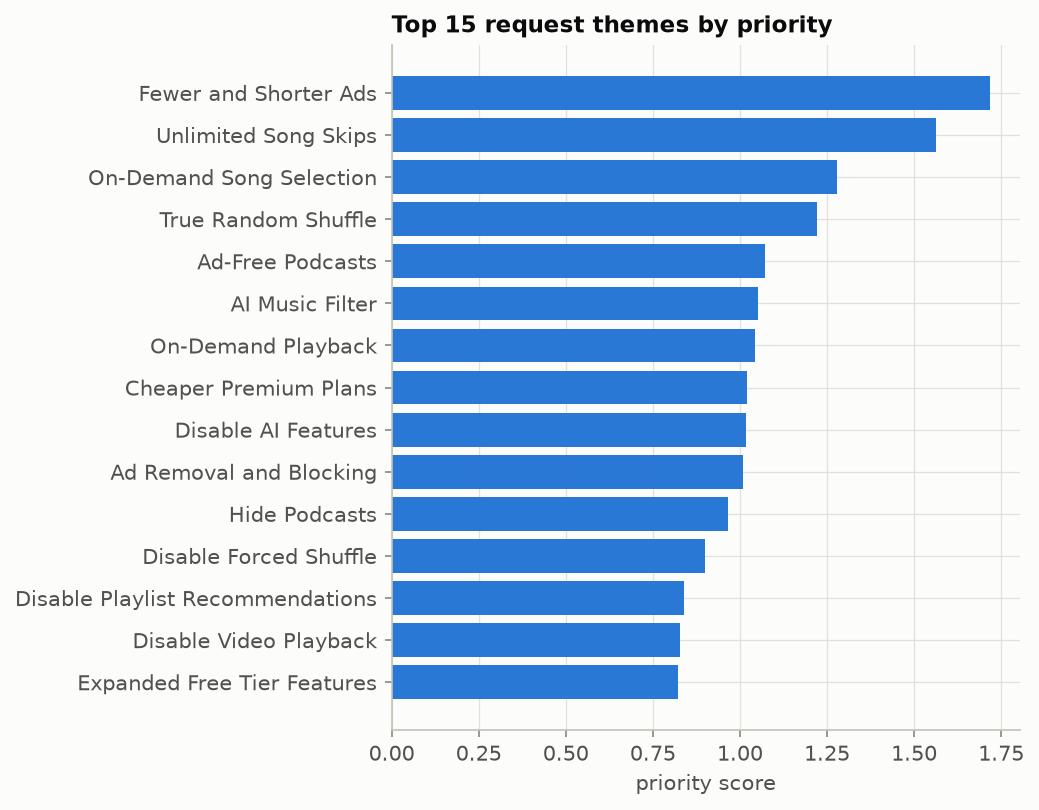
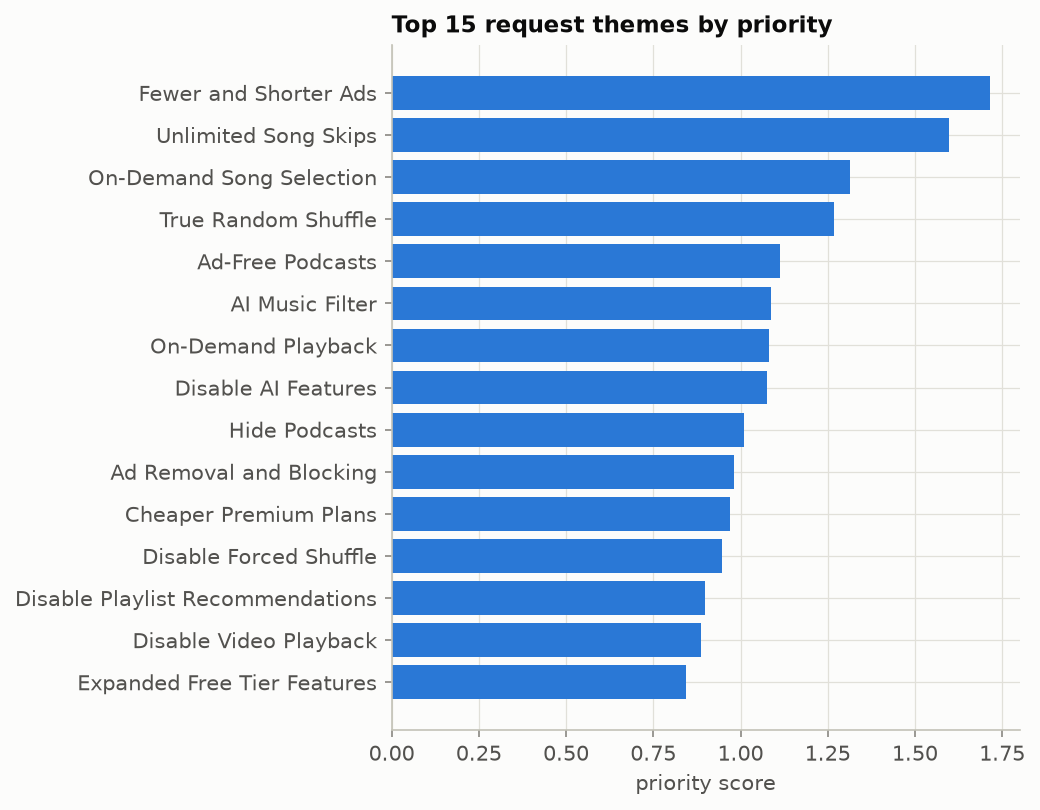
Trends: leave 5★ Play reviews out of growth and monthly shares
Google Play only returns 5★ reviews from 2026-08-31, so they all fell in the
recent trend window (9,630 of its 34,321 items) and made every theme look
smaller there. Growth, trends and monthly shares now count 1-4★ reviews and
Reddit only; volume and ratings still use all items. Declining themes go from
6 to 2 (old widget, old logo); none emerges.

Re-running rank_and_insights.py also re-ran the existing-feature matching
(cache miss for the corrected catalogue), which gave 17/23/17 instead of
13/24/20 exists/premium_only/partly.

diff --git a/scripts/rank_and_insights.py b/scripts/rank_and_insights.py
@@ -29,7 +29,10 @@ def main() -> None:
     proc = path("processed")
     themes = pd.read_parquet(proc / "themes.parquet")
     themed = pd.read_parquet(proc / "request_themes.parquet")
-    corpus_created = pd.read_parquet(path("interim") / "corpus.parquet")["created_at"]
+    corpus = pd.read_parquet(
+        path("interim") / "corpus.parquet", columns=["source", "rating", "created_at"]
+    )
+    corpus_created = score.trend_items(corpus)["created_at"]  # trends ignore 5★ Play reviews
 
     # Ranking and trends.
     stats = score.theme_stats(
@@ -45,7 +48,7 @@ def main() -> None:
     stats = stats.sort_values("priority", ascending=False, ignore_index=True)
     stats["rank"] = np.arange(1, len(stats) + 1)
     items = score.item_table(themed)
-    series = trends.monthly(items, corpus_created)
+    series = trends.monthly(score.trend_items(items), corpus_created)
     stats.to_parquet(proc / "theme_stats.parquet", index=False)
     series.to_parquet(proc / "theme_timeseries.parquet", index=False)
 
@@ -108,7 +111,8 @@ def write_reports(stats, series, plat, rat, comp, ex, themes, rcfg, tot_prev, to
             f"{w['dissatisfaction']}·z(share ≤2★) + {w['growth']}·z(growth). Engagement: "
             "mean within-source percentile of thumbs-up/upvotes. Growth: log2 change in "
             f"the theme's share of corpus items, last {rcfg['window_weeks']} weeks vs the "
-            f"{rcfg['window_weeks']} before (blank below {rcfg['min_support']} items).\n\n"
+            f"{rcfg['window_weeks']} before, 5★ Play reviews left out (blank below "
+            f"{rcfg['min_support']} items).\n\n"
         )
         f.write(stats.head(30)[cols].round(3).to_markdown(index=False) + "\n")
         by_vol = stats.sort_values("items", ascending=False).head(15)
@@ -123,7 +127,9 @@ def write_reports(stats, series, plat, rat, comp, ex, themes, rcfg, tot_prev, to
             f"{rcfg['window_weeks']} weeks before ({tot_prev}). Two-proportion z-test on "
             f"the theme's share of corpus items, Benjamini–Hochberg q < "
             f"{rcfg['trend']['alpha']}, ratio ≥ {rcfg['trend']['min_ratio']} (or ≤ its "
-            f"inverse), ≥ {rcfg['trend']['min_recent']} items in the larger window.\n\n"
+            f"inverse), ≥ {rcfg['trend']['min_recent']} items in the larger window. "
+            "5★ Play reviews are left out of all counts, because Google Play only returns them "
+            "for the last weeks of the year.\n\n"
         )
         for trend in ("emerging", "declining"):
             sub = stats[stats["trend"] == trend].sort_values("ratio", ascending=trend != "emerging")

diff --git a/src/frminer/rank/score.py b/src/frminer/rank/score.py
@@ -5,7 +5,8 @@ priority = w_volume·z(log items) + w_engagement·z(engagement)
 
 Engagement is each item's percentile rank of thumbs-up / upvotes within its own source
 (so Play and Reddit are comparable), averaged per theme. Growth is the log2 ratio of the
-theme's share of all corpus items in the recent window vs the window before it.
+theme's share of all corpus items in the recent window vs the window before it (5★ Play
+reviews left out, see `trend_items`).
 """
 
 from __future__ import annotations
@@ -22,6 +23,16 @@ def item_table(themed: pd.DataFrame) -> pd.DataFrame:
     eng = themed.drop_duplicates("id")[["id", "source", "engagement"]].copy()
     eng["engagement_pct"] = eng.groupby("source")["engagement"].rank(pct=True)
     return items.merge(eng[["id", "engagement_pct"]], on="id", how="left")
+
+
+def trend_items(df: pd.DataFrame) -> pd.DataFrame:
+    """Rows that count towards growth, trends and monthly shares: all but 5★ Play reviews.
+
+    Google Play only returns 5★ reviews for the last weeks of the window (pagination limit),
+    so counting them would inflate recent volume and make every theme look like it shrinks.
+    """
+    five_star_play = (df["source"] == "play") & df["rating"].eq(5).fillna(False).astype(bool)
+    return df[~five_star_play]
 
 
 def windows(end: pd.Timestamp, weeks: int) -> tuple[pd.Timestamp, pd.Timestamp, pd.Timestamp]:
@@ -47,7 +58,7 @@ def theme_stats(
     rows = []
     for theme, g in items.groupby("theme_id"):
         play = g[(g["source"] == "play") & g["rating"].notna()]
-        prev, recent = window_counts(g["created_at"], bounds)
+        prev, recent = window_counts(trend_items(g)["created_at"], bounds)
         growth = (
             np.log2((recent / tot_recent + EPS) / (prev / tot_prev + EPS))
             if prev + recent >= min_support

diff --git a/tests/test_rank.py b/tests/test_rank.py
@@ -34,6 +34,23 @@ def test_theme_stats_volume_ratings_growth():
     assert s1["growth"] > 0  # all of theme 1 is in the recent window
 
 
+def test_five_star_play_reviews_do_not_count_for_growth():
+    themed = themed_frame()
+    late = pd.Timestamp("2026-01-01", tz="UTC") + pd.Timedelta(weeks=20)
+    extra = pd.DataFrame(
+        [(f"f{i}", "play", late, 5, 0, 0, None) for i in range(10)], columns=themed.columns
+    ).astype({"rating": "Int64"})
+    kept = score.trend_items(pd.concat([themed, extra], ignore_index=True))
+    assert not kept["id"].str.startswith("f").any()
+    assert kept["rating"].isna().sum() == themed["rating"].isna().sum()  # Reddit rows stay
+    base = score.theme_stats(themed, corpus_created(), weeks=10, min_support=5)
+    more = score.theme_stats(
+        pd.concat([themed, extra], ignore_index=True), corpus_created(), weeks=10, min_support=5
+    )
+    assert more.loc[0, "recent_items"] == base.loc[0, "recent_items"]
+    assert more.loc[0, "items"] == base.loc[0, "items"] + 10  # still counted as volume
+
+
 def test_priority_and_zscore():
     stats = pd.DataFrame(
         {"items": [100, 10], "engagement": [0.5, 0.5], "low_rating_share": [np.nan, 0.2]}

diff --git a/apps/dashboard/views/explorer.py b/apps/dashboard/views/explorer.py
@@ -57,7 +57,7 @@ k[3].metric(
     row["trend"],
     None if pd.isna(growth) else f"{growth:+.2f} log₂ share",
     delta_color="normal" if row["trend"] != "stable" else "off",
-    help="Theme's share of all items, last 13 weeks vs the 13 before; "
+    help="Theme's share of all items (5★ Play reviews left out), last 13 weeks vs the 13 before; "
     "'declining'/'emerging' only when significant (BH-corrected).",
 )
 
@@ -101,7 +101,7 @@ fig.update_layout(
     margin=dict(t=10),
 )
 with left:
-    st.markdown("**Share of all items per month** (all sources)")
+    st.markdown("**Share of all items per month** (all sources; 5★ Play reviews left out)")
     st.plotly_chart(fig, width="stretch", config=CHART_CONFIG)
     st.caption("First and last months are partial. Shaded: selected months.")
 

diff --git a/apps/dashboard/views/trends.py b/apps/dashboard/views/trends.py
@@ -35,7 +35,8 @@ st.markdown(
     f"Each theme's **share of all items** in the last {weeks} weeks vs the {weeks} weeks before. "
     f"A theme is *emerging* or *declining* when the share changes at least {tcfg['min_ratio']}× "
     f"with ≥ {tcfg['min_recent']} recent items and a two-proportion test is significant "
-    f"(Benjamini–Hochberg q < {tcfg['alpha']})."
+    f"(Benjamini–Hochberg q < {tcfg['alpha']}). 5★ Play reviews are left out of trends: "
+    "Google Play only returns them for the last weeks of the year."
 )
 k = st.columns(3)
 k[0].metric("Themes with enough data", f"{stats['growth'].notna().sum()} of {len(stats)}")

diff --git a/apps/dashboard/views/overview.py b/apps/dashboard/views/overview.py
@@ -15,7 +15,8 @@ WEIGHT_HELP = {
     "volume": "log of the number of items asking for the theme",
     "engagement": "mean thumbs-up / upvote percentile (within each source)",
     "dissatisfaction": "share of the theme's Play reviews rated ≤ 2★",
-    "growth": "change in share of all items, last 13 weeks vs the 13 before",
+    "growth": "change in share of all items (5★ Play reviews left out), "
+    "last 13 weeks vs the 13 before",
 }
 
 st.title("Feature Request Miner")

diff --git a/reports/tables/top_themes.md b/reports/tables/top_themes.md
@@ -1,39 +1,39 @@
 # Top request themes by priority
 
-priority = 0.4·z(log items) + 0.2·z(engagement) + 0.2·z(share ≤2★) + 0.2·z(growth). Engagement: mean within-source percentile of thumbs-up/upvotes. Growth: log2 change in the theme's share of corpus items, last 13 weeks vs the 13 before (blank below 20 items).
+priority = 0.4·z(log items) + 0.2·z(engagement) + 0.2·z(share ≤2★) + 0.2·z(growth). Engagement: mean within-source percentile of thumbs-up/upvotes. Growth: log2 change in the theme's share of corpus items, last 13 weeks vs the 13 before, 5★ Play reviews left out (blank below 20 items).
 
 |   rank | name                                |   items |   engagement |   low_rating_share |   growth |   priority | trend     |
 |-------:|:------------------------------------|--------:|-------------:|-------------------:|---------:|-----------:|:----------|
-|      1 | Fewer and Shorter Ads               |    2709 |        0.51  |              0.512 |   -0.045 |      1.718 | stable    |
-|      2 | Unlimited Song Skips                |    1082 |        0.554 |              0.642 |   -0.146 |      1.562 | stable    |
-|      3 | On-Demand Song Selection            |     624 |        0.548 |              0.742 |   -0.538 |      1.28  | stable    |
-|      4 | True Random Shuffle                 |     492 |        0.572 |              0.555 |    0.09  |      1.221 | stable    |
-|      5 | Ad-Free Podcasts                    |     136 |        0.619 |              0.724 |    0.363 |      1.073 | stable    |
-|      6 | AI Music Filter                     |     271 |        0.6   |              0.808 |   -0.829 |      1.052 | stable    |
-|      7 | On-Demand Playback                  |     314 |        0.52  |              0.712 |    0.131 |      1.043 | stable    |
-|      8 | Cheaper Premium Plans               |     792 |        0.483 |              0.503 |   -0.095 |      1.02  | stable    |
-|      9 | Disable AI Features                 |     254 |        0.6   |              0.786 |   -0.757 |      1.018 | declining |
-|     10 | Ad Removal and Blocking             |     338 |        0.55  |              0.657 |   -0.18  |      1.007 | stable    |
-|     11 | Hide Podcasts                       |     170 |        0.635 |              0.803 |   -0.755 |      0.967 | stable    |
-|     12 | Disable Forced Shuffle              |     396 |        0.55  |              0.652 |   -0.73  |      0.901 | declining |
-|     13 | Disable Playlist Recommendations    |      65 |        0.644 |              0.82  |    0.078 |      0.838 | stable    |
-|     14 | Disable Video Playback              |     239 |        0.56  |              0.732 |   -0.627 |      0.828 | stable    |
-|     15 | Expanded Free Tier Features         |     358 |        0.517 |              0.637 |   -0.423 |      0.821 | stable    |
-|     16 | Free Tier On-Demand Playback        |     252 |        0.531 |              0.735 |   -0.836 |      0.688 | declining |
-|     17 | Removal of Playback Limits          |     155 |        0.549 |              0.655 |   -0.112 |      0.659 | stable    |
-|     18 | Free Queue Management               |     154 |        0.615 |              0.522 |   -0.293 |      0.658 | stable    |
-|     19 | Compact Home Screen Widgets         |     403 |        0.61  |              0.695 |   -2.451 |      0.605 | declining |
-|     20 | Disable Recommendations             |      64 |        0.602 |              0.72  |    0.193 |      0.6   | stable    |
-|     21 | Song Repeat Feature                 |     211 |        0.495 |              0.507 |    0.317 |      0.577 | stable    |
-|     22 | Song Rewind Controls                |     143 |        0.564 |              0.592 |   -0.221 |      0.558 | stable    |
-|     23 | Song Looping Controls               |      96 |        0.55  |              0.604 |    0.285 |      0.502 | stable    |
-|     24 | Synced Lyrics Display               |     425 |        0.488 |              0.283 |   -0.027 |      0.497 | stable    |
-|     25 | Enhanced Liked Songs Management     |     152 |        0.512 |              0.457 |    0.556 |      0.497 | stable    |
-|     26 | Bring Back Spotify Lite             |     113 |        0.494 |              0.747 |    0.013 |      0.477 | stable    |
-|     27 | Playlist Management and Variety     |     223 |        0.558 |              0.38  |   -0.273 |      0.471 | stable    |
-|     28 | Disable Podcasts and Video Playback |      61 |        0.631 |              0.804 |   -0.805 |      0.456 | stable    |
-|     29 | Hide Audiobooks and Podcasts        |      58 |        0.584 |              0.725 |   -0.015 |      0.434 | stable    |
-|     30 | True Playlist Shuffle               |      80 |        0.585 |              0.529 |    0.252 |      0.432 | stable    |
+|      1 | Fewer and Shorter Ads               |    2709 |        0.51  |              0.512 |    0.231 |      1.714 | stable    |
+|      2 | Unlimited Song Skips                |    1082 |        0.554 |              0.642 |    0.254 |      1.598 | stable    |
+|      3 | On-Demand Song Selection            |     624 |        0.548 |              0.742 |   -0.139 |      1.315 | stable    |
+|      4 | True Random Shuffle                 |     492 |        0.572 |              0.555 |    0.523 |      1.269 | stable    |
+|      5 | Ad-Free Podcasts                    |     136 |        0.619 |              0.724 |    0.772 |      1.114 | stable    |
+|      6 | AI Music Filter                     |     271 |        0.6   |              0.808 |   -0.424 |      1.088 | stable    |
+|      7 | On-Demand Playback                  |     314 |        0.52  |              0.712 |    0.535 |      1.081 | stable    |
+|      8 | Disable AI Features                 |     254 |        0.6   |              0.786 |   -0.282 |      1.077 | stable    |
+|      9 | Hide Podcasts                       |     170 |        0.635 |              0.803 |   -0.331 |      1.009 | stable    |
+|     10 | Ad Removal and Blocking             |     338 |        0.55  |              0.657 |    0.028 |      0.981 | stable    |
+|     11 | Cheaper Premium Plans               |     792 |        0.483 |              0.503 |    0.04  |      0.97  | stable    |
+|     12 | Disable Forced Shuffle              |     396 |        0.55  |              0.652 |   -0.296 |      0.946 | stable    |
+|     13 | Disable Playlist Recommendations    |      65 |        0.644 |              0.82  |    0.552 |      0.899 | stable    |
+|     14 | Disable Video Playback              |     239 |        0.56  |              0.732 |   -0.152 |      0.888 | stable    |
+|     15 | Expanded Free Tier Features         |     358 |        0.517 |              0.637 |   -0.06  |      0.844 | stable    |
+|     16 | Free Tier On-Demand Playback        |     252 |        0.531 |              0.735 |   -0.392 |      0.736 | stable    |
+|     17 | Free Queue Management               |     154 |        0.615 |              0.522 |    0.181 |      0.719 | stable    |
+|     18 | Removal of Playback Limits          |     155 |        0.549 |              0.655 |    0.215 |      0.671 | stable    |
+|     19 | Disable Recommendations             |      64 |        0.602 |              0.72  |    0.668 |      0.662 | stable    |
+|     20 | Compact Home Screen Widgets         |     403 |        0.61  |              0.695 |   -2.063 |      0.63  | declining |
+|     21 | Song Repeat Feature                 |     211 |        0.495 |              0.507 |    0.719 |      0.616 | stable    |
+|     22 | Song Rewind Controls                |     143 |        0.564 |              0.592 |    0.093 |      0.566 | stable    |
+|     23 | Song Looping Controls               |      96 |        0.55  |              0.604 |    0.76  |      0.564 | stable    |
+|     24 | Enhanced Liked Songs Management     |     152 |        0.512 |              0.457 |    1     |      0.55  | stable    |
+|     25 | Bring Back Spotify Lite             |     113 |        0.494 |              0.747 |    0.487 |      0.538 | stable    |
+|     26 | Disable Podcasts and Video Playback |      61 |        0.631 |              0.804 |   -0.331 |      0.515 | stable    |
+|     27 | Playlist Management and Variety     |     223 |        0.558 |              0.38  |    0.035 |      0.476 | stable    |
+|     28 | Synced Lyrics Display               |     425 |        0.488 |              0.283 |    0.188 |      0.474 | stable    |
+|     29 | Hide Audiobooks and Podcasts        |      58 |        0.584 |              0.725 |    0.36  |      0.463 | stable    |
+|     30 | True Playlist Shuffle               |      80 |        0.585 |              0.529 |    0.607 |      0.455 | stable    |
 
 ## Largest themes by volume
 

diff --git a/reports/tables/insights.md b/reports/tables/insights.md
@@ -139,24 +139,24 @@ Play-leaning:
 
 ## Requests for features that already exist
 
-new: 87 themes, premium_only: 24 themes, partly: 20 themes, exists: 13 themes (of 144).
+new: 87 themes, premium_only: 23 themes, partly: 17 themes, exists: 17 themes (of 144).
 
 ### exists
 
-| name                             | feature                       | availability   |   items |
-|:---------------------------------|:------------------------------|:---------------|--------:|
-| Synced Lyrics Display            | Lyrics                        | all            |     425 |
-| Disable Forced Shuffle           | Turn off Smart Shuffle        | premium        |     396 |
-| Search and History Management    | Listening history             | all            |      83 |
-| Playlist Content Management      | Hide song                     | all            |      81 |
-| Hidden Songs Management          | Hide song                     | all            |      77 |
-| Volume Control and Normalization | Volume normalization          | all            |      67 |
-| Crossfade and Gapless Playback   | Crossfade                     | all            |      66 |
-| Family Plan Management           | Family, Duo and Student plans | all            |      49 |
-| Improved Playback Controls       | Home screen widget            | all            |      44 |
-| Advanced Audio Equalizer         | Equalizer                     | all            |      39 |
-| Playlist Folders on Mobile       | Playlist folders              | all            |      38 |
-| Radio And Station Discovery      | Song radio                    | all            |      33 |
+| name                             | feature                | availability   |   items |
+|:---------------------------------|:-----------------------|:---------------|--------:|
+| Synced Lyrics Display            | Lyrics                 | all            |     425 |
+| Disable Forced Shuffle           | Turn off Smart Shuffle | premium        |     396 |
+| Ad-Free Premium Experience       | Ad-free listening      | premium        |     143 |
+| Ad-Free Podcasts                 | Ad-free listening      | premium        |     136 |
+| Monthly Listening Statistics     | Listening history      | all            |      89 |
+| Search and History Management    | Listening history      | all            |      83 |
+| Playlist Content Management      | Hide song              | all            |      81 |
+| Hidden Songs Management          | Hide song              | all            |      77 |
+| Content Blocking Controls        | Don't play this artist | all            |      74 |
+| Volume Control and Normalization | Volume normalization   | all            |      67 |
+| Crossfade and Gapless Playback   | Crossfade              | all            |      66 |
+| Disable Song Recommendations     | Turn off Smart Shuffle | premium        |      58 |
 
 ### premium_only
 
@@ -168,12 +168,12 @@ new: 87 themes, premium_only: 24 themes, partly: 20 themes, exists: 13 themes (o
 | Offline Downloads for Free Tier | Offline downloads | premium        |     229 |
 | Song Repeat Feature             | Repeat one song   | premium        |     211 |
 | Hi-Fi Audio Quality             | Lossless audio    | premium        |     163 |
-| Removal of Playback Limits      | Unlimited skips   | premium        |     155 |
 | Lossless Audio Streaming        | Lossless audio    | premium        |     134 |
 | Free Music Downloads            | Offline downloads | premium        |     131 |
 | Offline Music Playback          | Offline downloads | premium        |     130 |
 | Ad-Free Free Tier               | Ad-free listening | premium        |     105 |
 | Offline Listening For Free      | Offline downloads | premium        |     104 |
+| Ad-Free Listening Options       | Ad-free listening | premium        |      96 |
 
 ### partly
 
@@ -189,6 +189,6 @@ new: 87 themes, premium_only: 24 themes, partly: 20 themes, exists: 13 themes (o
 | Enhanced Liked Songs Management | Liked Songs filters and sorting | all            |     152 |
 | AI DJ Controls                  | AI DJ                           | premium        |     116 |
 | Custom Playlist Sorting         | Liked Songs filters and sorting | all            |      96 |
-| Student Discount Expansion      | Family, Duo and Student plans   | all            |      82 |
-| True Playlist Shuffle           | Turn off Smart Shuffle          | premium        |      80 |
+| Listening History Management    | Listening history               | all            |      66 |
+| Genre Filtering and Display     | Liked Songs filters and sorting | all            |      54 |
 

diff --git a/reports/tables/trends.md b/reports/tables/trends.md
@@ -1,19 +1,15 @@
 # Emerging and declining themes
 
-Last 13 weeks (34321 corpus items) vs the 13 weeks before (29438). Two-proportion z-test on the theme's share of corpus items, Benjamini–Hochberg q < 0.05, ratio ≥ 1.5 (or ≤ its inverse), ≥ 15 items in the larger window.
+Last 13 weeks (24691 corpus items) vs the 13 weeks before (29438). Two-proportion z-test on the theme's share of corpus items, Benjamini–Hochberg q < 0.05, ratio ≥ 1.5 (or ≤ its inverse), ≥ 15 items in the larger window. 5★ Play reviews are left out of all counts, because Google Play only returns them for the last weeks of the year.
 
 ## Emerging (0)
 
 None.
 
-## Declining (6)
+## Declining (2)
 
-| name                            |   prev_items |   recent_items |   ratio |      q |
-|:--------------------------------|-------------:|---------------:|--------:|-------:|
-| Classic App Logo Customization  |           29 |              6 |  0.1775 | 0.001  |
-| Compact Home Screen Widgets     |          319 |             68 |  0.1828 | 0      |
-| Account Security and Management |           18 |              5 |  0.2383 | 0.0481 |
-| Free Tier On-Demand Playback    |           72 |             47 |  0.5599 | 0.0481 |
-| Disable AI Features             |           87 |             60 |  0.5915 | 0.0481 |
-| Disable Forced Shuffle          |          101 |             71 |  0.603  | 0.0454 |
+| name                           |   prev_items |   recent_items |   ratio |      q |
+|:-------------------------------|-------------:|---------------:|--------:|-------:|
+| Classic App Logo Customization |           29 |              5 |  0.2056 | 0.0212 |
+| Compact Home Screen Widgets    |          319 |             64 |  0.2392 | 0      |
 
